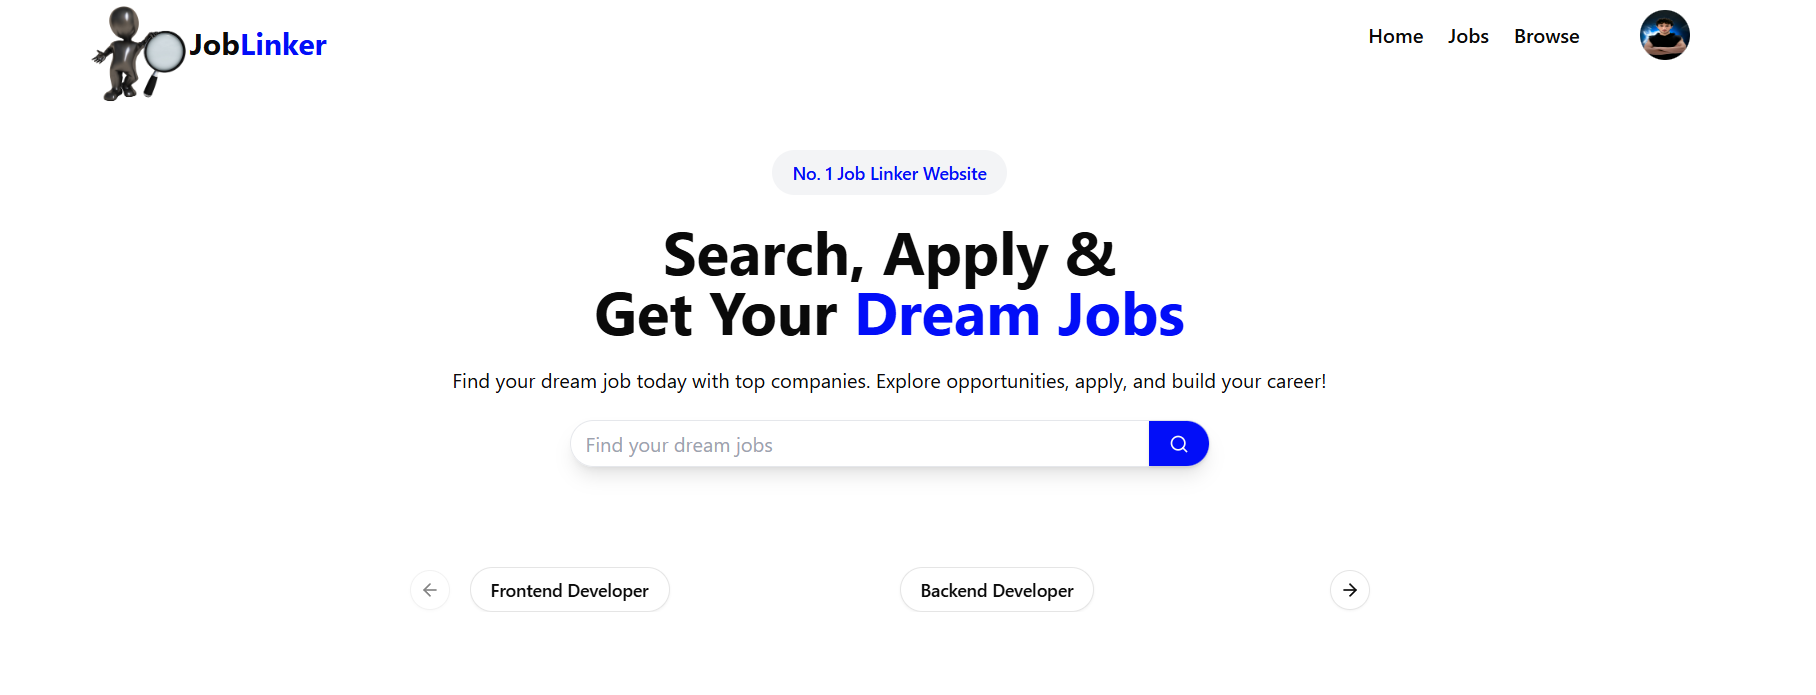
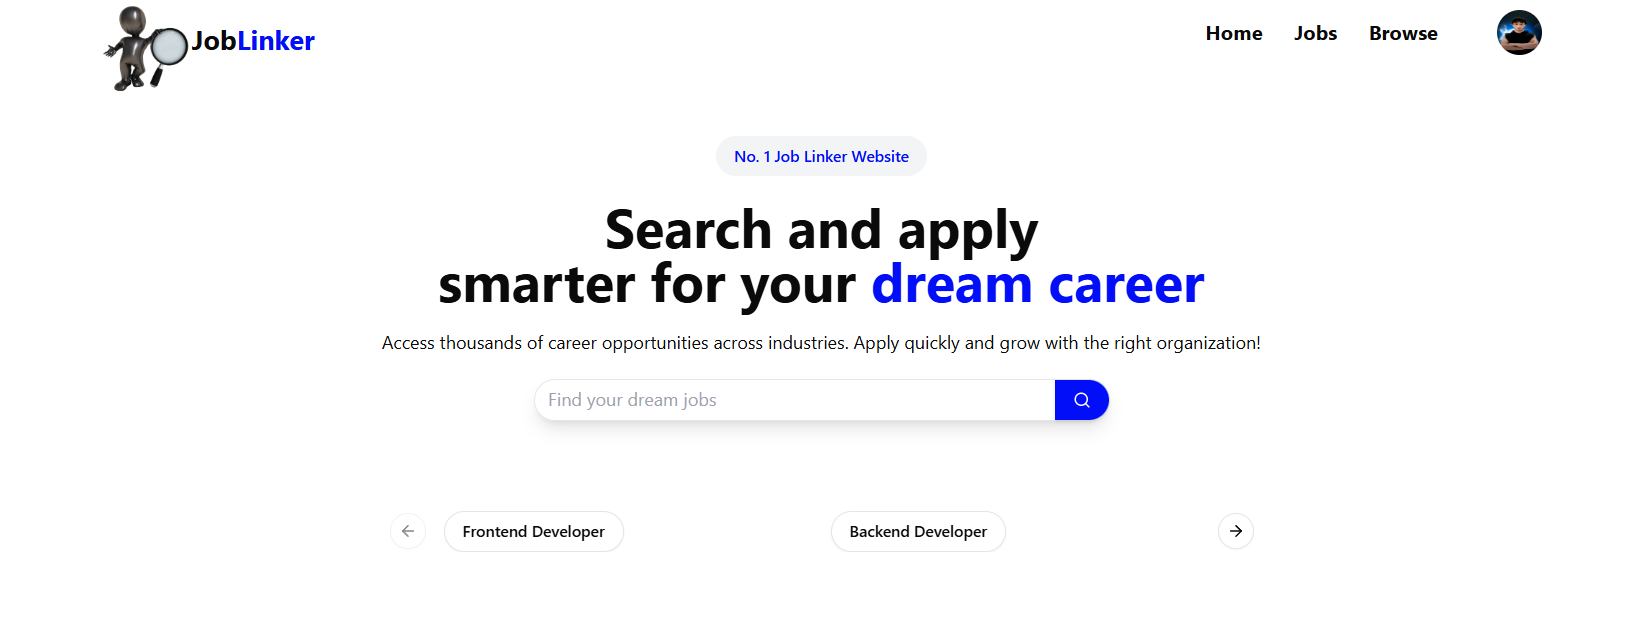
update README with latest information

diff --git a/Readme.md b/Readme.md
@@ -1,15 +1,15 @@
- <h1 align="center">JobLinker — Find Your Dream Job</h1>
+ <h1 align="center">JobLinker - Find Your Dream Job</h1>
 
 <br>
 
-<h2>🔐 Authentication (Sign-in / Sign-up)</h2>
+<h2> Authentication (Sign-in / Sign-up)</h2>
 
 -  SignIn and signup functionality.
 - Two types of users: Students and Recruiters.
 
 <br>
 
-<h2>👨💼 Recruiter Panel </h2>
+<h2> Recruiter Panel </h2>
 
 - **Register Company**: Recruiter first registers their company details.
 
@@ -27,7 +27,7 @@
 
 <br>
 
-<h2>🎓 Student Panel </h2>
+<h2> Student Panel </h2>
 
 - **Browse Jobs**: Students can view all jobs posted by recruiters.
 
@@ -49,7 +49,7 @@
 
   <br>
 
-<h2>🌟 Extra Details</h2>
+<h2> Extra Details</h2>
 
 
 - Clean UI flow between registration, job creation, job application, and status updates.
@@ -58,7 +58,7 @@
 
 <br>
 
-<h2>🛠 Tech Stack</h2>
+<h2> Tech Stack</h2>
 
 - **Frontend**: Built with React.js for a responsive and dynamic UI.
 
@@ -105,7 +105,7 @@
 
 <p align="center">
 <a href='https://joblinker-pro.vercel.app/'>
-        <img src='frontend/public/website-demo/web6.png' width="750" alt="Website Demo">
+        <img src='frontend/public/website-demo/web10.png' width="750" alt="Website Demo">
         </a>
 </p>
 
